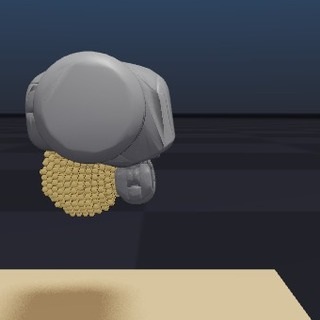
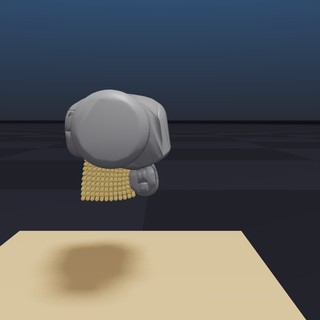
Show the hand demo grasping a block
The hand example now grasps an MPM block. Replace the ball screenshot
with the block held at the top of the lift, describe the block in the
README entry and changelog fragment, and record the block material,
checks, and results (elastic 2.03 mm, plastic 7.85 mm residual
deformation after release, both passing at 10 substeps) in the lab
report next to the earlier ball measurements. Bring the P4 progress
notes up to date.

diff --git a/docs/lab/mjmpm/P4_PROGRESS.md b/docs/lab/mjmpm/P4_PROGRESS.md
@@ -1,16 +1,21 @@
 # MJMPM P4 进度记录
 
-- 更新：2026-10-19
+- 更新：2026-10-21
 - 分支：`feature/mjmpm-two-way-grasp`（所有后续修改直接提交到此分支并推送到 `myfork`）
+- 详细数据见 [实施报告](README.md)“第三轮”一节与 [计划](../../plans/mujoco_mpm_coupling_plan.md)。
 
 ## 2026-10-20 更新
 
 - W1 双手挤压抓取提速：默认改为 P3、4 子步、Jacobi 60 次、刚体接触热启动 20 遍、IK 4 次，RTX 5060 Ti 上 10.5 → 44 FPS，15/15 次验收通过。详见实施报告“第四轮”。
 - 新增 `SolverMJMPM(rigid_warm_start=True)`：W1 刚体块夹持滑转的根因是环境刚体接触每步从零开始的摩擦冲量未收敛，热启动后转角 ≤ 0.1°。
 - MPM 偶发单粒子抛射/NaN 的原因是 Jacobi 30 次未收敛（与热启动无关），默认改为 60 次。
-- 灵巧手例子按用户要求暂停：工作区中已把球改为方块（弹性/塑性，塑性方块 `friction=0` 才会屈服，3 kPa 时残余 7.9 mm、弹性 2.0 mm），未提交。
-- 本机 `test_collider_bound_culling_preserves_rasterization` 报 CUDA 错误 700，HEAD 同样失败，未处理。
-- 详细数据见 [实施报告](README.md)“第三轮”一节与 [计划](../../plans/mujoco_mpm_coupling_plan.md)。
+- 灵巧手例子改为抓取方块（弹性/塑性，塑性方块 `friction=0` 才会屈服；3 kPa 时松开残余 7.9 mm、弹性 2.0 mm），已换截图、README 与 changelog。
+
+## 2026-10-21 更新
+
+- 求解器层面提速（结果不变或仅舍入差异）：碰撞体栅格化按（点，碰撞体）并行、MPM 准备阶段与刚体接触双流重叠、连杆接触响应每步并行预计算；新增可选的并行 Jacobi 刚体接触（W1 中夹持质量变差，默认仍为 GS）；停滞残差提前结束。详见实施报告第五、六轮。
+- W1 软块松开后形状恢复：4 cm 网格、4 × 4 × 6 粒子、逐粒子应变基 `pic48`，残余 3.0 → 0.46 mm，64 FPS；粗离散使软块偏硬（压入 3.6 mm/侧）。详见第七轮。
+- `test_collider_bound_culling_preserves_rasterization` 的 CUDA 错误 700 是测试在 CPU 模型上用 CUDA 建数组所致，已修复；MJMPM 测试 44/44 通过。
 
 ## 已完成
 

diff --git a/docs/lab/mjmpm/README.md b/docs/lab/mjmpm/README.md
@@ -274,6 +274,10 @@ MuJoCo Warp 先以 `M` 求解约束问题得到 `a_c`，再积分 `H dv = dt M a
 
 在这个场景里三种耦合方式都能完成抓取，P3 的保持抖动略小；与 W1 不同，没有出现只有 P3 才能通过的子步数。单向耦合同样能把球提起（手指不受反力，直接嵌入球体），因此单向只检查有限值与静置。
 
+#### 改为方块（2026-10-21）
+
+按用户要求，例子改为抓取 4.8 cm 立方块（4 mm 粒子间距，弹性 E=40 kPa；塑性面团同刚度、屈服应力 3 kPa、`friction=0`）。方块平放无需削平底面；无摩擦项时 Drucker–Prager 的压力相关剪切上限消失，屈服只由屈服应力决定，否则默认摩擦 0.5 与屈服压力 1e15 使材料永不屈服。判据改为以静置形状为参考、刚体对齐后的松开残余变形：弹性 < 3.5 mm、塑性 > 5 mm；仍只要求弹性材料使手指停在限位前。10 子步代理耦合：弹性 2.03 mm、塑性 7.85 mm，均通过。上表为球的记录。截图已换为方块。
+
 ### MPM Gauss–Seidel 开销分析
 
 单独测试 W1 软块（288 粒、P1d、1.5 cm 网格、50 次迭代）：每步 7.4 ms GPU 时间中 Gauss–Seidel 占 83%，每色一次启动、每次 15.3 µs，但每色只有 12 个单元块（每块 4 个应变节点）。P0 基（每块 1 个节点）为 2.6 ms/步，说明瓶颈是每个线程顺序求解块内节点时的依赖访存延迟，而非启动次数或吞吐。

diff --git a/README.md b/README.md
@@ -624,7 +624,7 @@ If you run the examples from a source checkout with uv, use
     </td>
     <td colspan="2">
       <b>MuJoCo–MPM five-finger hand grasp (experimental)</b><br>
-      A force-limited W1 hand grasps, lifts, and releases an elastic MPM ball, or dents a dough ball.<br>
+      A force-limited W1 hand grasps, lifts, and releases an elastic MPM block, or dents a dough block.<br>
       <code>python -m newton.examples mjmpm_hand_grasp</code><br>
       <code>python -m newton.examples mjmpm_hand_grasp --material plastic --articulated-response</code>
     </td>

diff --git a/changelog/+mjmpm-hand-grasp.added.md b/changelog/+mjmpm-hand-grasp.added.md
@@ -1,1 +1,1 @@
-Add the experimental `mjmpm_hand_grasp` example, in which a five-finger DexForce W1 hand driven by MuJoCo grasps, lifts, and releases an elastic or plastic MPM ball through force-limited finger drives and mimic-coupled distal joints.
+Add the experimental `mjmpm_hand_grasp` example, in which a five-finger DexForce W1 hand driven by MuJoCo grasps, lifts, and releases an elastic or plastic MPM block through force-limited finger drives and mimic-coupled distal joints.
